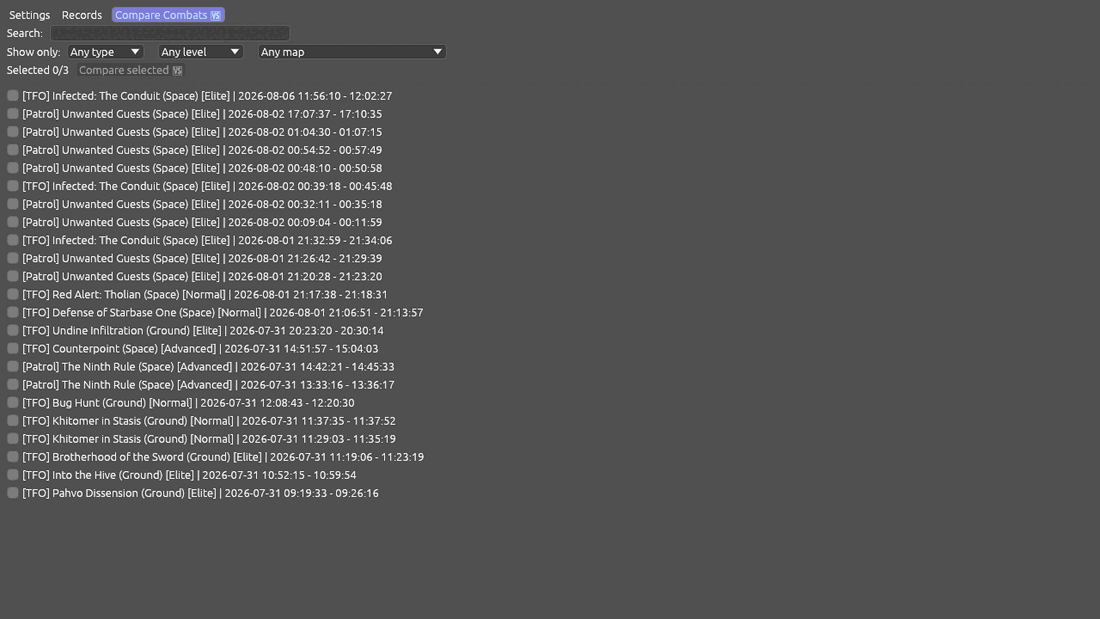
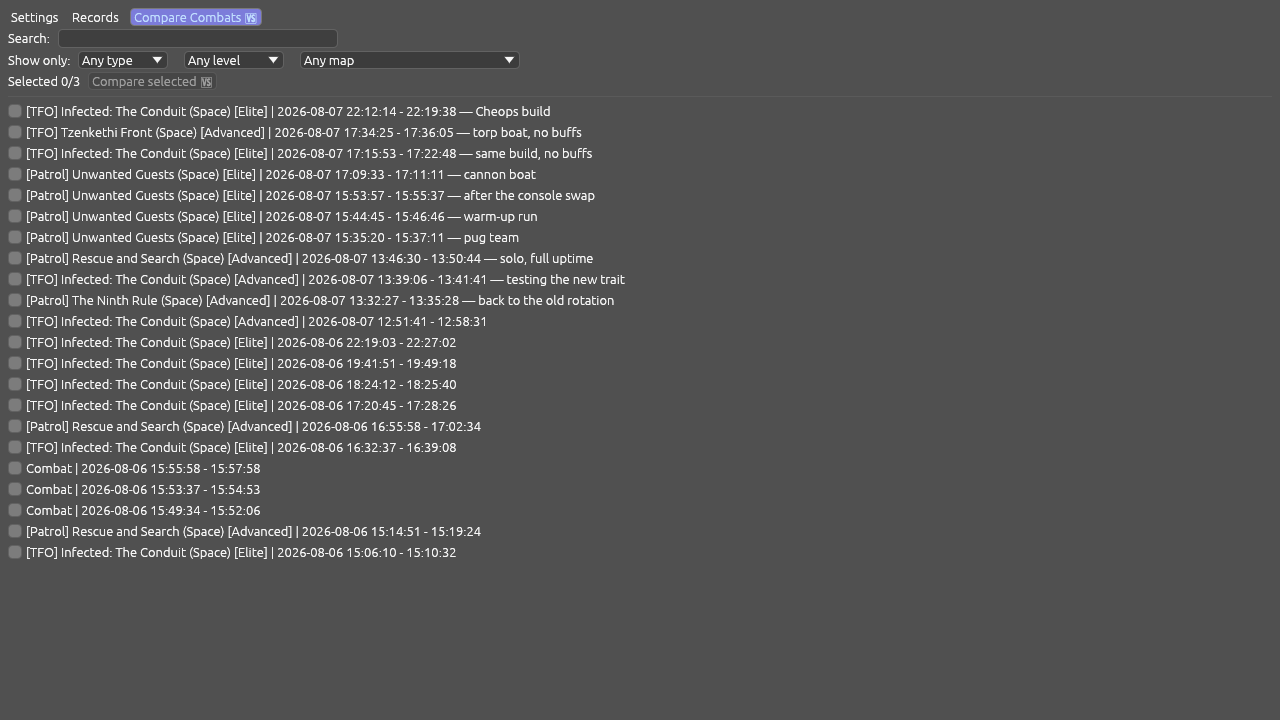
Show the notes and the series colours in the manual's pictures
The pictures the manual leans on were taken before a comparison carried notes
or colours, and before Visuals had a colour-blind switch, so the text described
things the screenshots did not show.

`demo/settings.py` now labels the newest combats with made-up notes instead of
clearing the section outright. Clearing it was right when a note was only the
user's own words about their runs — but a note is now part of what a picture of
the combats list and of Compare has to show, and the real ones still never
reach an image, because these replace them rather than join them.

The keys are worked out the way the program works them out: a record more than
the separation time after the last one starts a combat, and a note is keyed by
the timestamp of its first record. More notes are seeded than any one picture
shows, because the program then throws away the fights nobody dealt damage in
and a note landing on one of those is never seen.

Retaken with `demo/screenshots.sh images settings`: the comparison now shows a
note under each combat number, both in the colour of that combat's line, and
the Visuals tab shows the new switch.

Changed region(s): [[0.0, 0.1535, 0.4945, 0.8288]]

diff --git a/demo/settings.py b/demo/settings.py
@@ -13,6 +13,7 @@ Run the program against it with:
     XDG_CONFIG_HOME=/tmp/clare-demo ./target/release/sto-clare
 """
 
+import datetime
 import json
 import pathlib
 import shutil
@@ -31,6 +32,64 @@ def live_settings() -> pathlib.Path | None:
     return None
 
 
+# What the newest combats are labelled with in the pictures, newest first.
+#
+# More of them than any one picture shows, on purpose: the boundaries below are
+# every gap in the log, while the program throws away the fights nobody dealt
+# damage in (`Analyzer`, `retain(|combat| combat.total_damage_out.all > 0.0)`).
+# Notes landing on those are simply never seen, so the list has to run past them
+# for the combats a picture does show to carry one.
+DEMO_NOTES = [
+    "Cheops build",
+    "FAW build",
+    "torp boat, no buffs",
+    "first run of the evening",
+    "same build, no buffs",
+    "cannon boat",
+    "after the console swap",
+    "warm-up run",
+    "pug team",
+    "solo, full uptime",
+    "testing the new trait",
+    "back to the old rotation",
+]
+
+
+def combat_starts(log: pathlib.Path, separation_seconds: float) -> list[datetime.datetime]:
+    """When each combat in `log` began, oldest first.
+
+    Mirrors `Analyzer::process_next_record`: a record more than the separation
+    time after the last one starts a new combat, and a combat's start — which
+    is what a note is keyed by (`CombatNotes::key_at`) — is the timestamp of
+    its first record. The log writes `%y:%m:%d:%H:%M:%S.f` with one decimal;
+    the parser pads that to milliseconds, so this does too.
+    """
+    starts: list[datetime.datetime] = []
+    previous: datetime.datetime | None = None
+    separation = datetime.timedelta(seconds=separation_seconds)
+    with log.open(encoding="utf-8", errors="replace") as lines:
+        for line in lines:
+            stamp, _, _ = line.partition("::")
+            try:
+                time = datetime.datetime.strptime(stamp + "00", "%y:%m:%d:%H:%M:%S.%f")
+            except ValueError:
+                continue
+            if previous is None or time - previous > separation:
+                starts.append(time)
+            previous = time
+    return starts
+
+
+def demo_notes(log: pathlib.Path, separation_seconds: float) -> dict[str, str]:
+    if not log.is_file():
+        return {}
+    newest_first = list(reversed(combat_starts(log, separation_seconds)))
+    return {
+        start.strftime("%Y-%m-%d %H:%M:%S.") + f"{start.microsecond // 1000:03d}": note
+        for start, note in zip(newest_first, DEMO_NOTES)
+    }
+
+
 def main() -> int:
     if len(sys.argv) < 3:
         print(__doc__)
@@ -45,10 +104,13 @@ def main() -> int:
     settings["analysis"]["consolidate_combatlog"] = True
     settings.setdefault("visuals", {})["theme"] = theme
     settings["visuals"].setdefault("ui_scale", 1.0)
-    # Notes are the user's own words about their runs — keep them out of
-    # screenshots. The shape matters: a bare {} fails to load and the program
-    # then falls back to its defaults, log path and all.
-    settings["combat_notes"] = {"notes": {}}
+    # Made-up notes on the newest few combats, replacing the real ones: those
+    # are the user's own words about their runs and must not reach a picture,
+    # while the pictures of the combats list and of Compare have to show what a
+    # note looks like. The shape matters: a bare {} fails to load and the
+    # program then falls back to its defaults, log path and all.
+    separation = settings.get("analysis", {}).get("combat_separation_time_seconds", 45.0)
+    settings["combat_notes"] = {"notes": demo_notes(pathlib.Path(log), float(separation))}
     settings.setdefault("general", {})["overlay_shown"] = False
     settings["window"] = {"size": [1280.0, 720.0], "maximized": False}
 

diff --git a/demo/README.md b/demo/README.md
@@ -11,13 +11,13 @@ from scratch every time. Two jobs:
 
 Nothing here is part of the program, and nothing here runs in CI.
 
-| Script                | What it is for                                                                                                                           |
-|-----------------------|------------------------------------------------------------------------------------------------------------------------------------------|
-| `make-demo-log.py`    | Copies the tail of a real combat log and renames every player in it. Screenshots can then show real numbers without showing real people. |
-| `settings.py`         | Builds a throwaway settings folder pointing at that log, with a chosen theme. Never touches your own settings.                           |
-| `screenshots.sh`      | Runs the program and grabs the pictures used by the docs: the tabs, the settings sections, compare, records, the theme gallery.          |
-| `probe-overlay.sh`    | Measures the overlay: opacity through the compositor, click-through, and the Overlay button.                                             |
-| `format-md-tables.py` | Lines up the columns in markdown tables. Cosmetic; the rendered output does not change.                                                  |
+| Script                | What it is for                                                                                                                                                   |
+|-----------------------|------------------------------------------------------------------------------------------------------------------------------------------------------------------|
+| `make-demo-log.py`    | Copies the tail of a real combat log and renames every player in it. Screenshots can then show real numbers without showing real people.                         |
+| `settings.py`         | Builds a throwaway settings folder pointing at that log, with a chosen theme, and labels its newest combats with made-up notes. Never touches your own settings. |
+| `screenshots.sh`      | Runs the program and grabs the pictures used by the docs: the tabs, the settings sections, compare, records, the theme gallery.                                  |
+| `probe-overlay.sh`    | Measures the overlay: opacity through the compositor, click-through, and the Overlay button.                                                                     |
+| `format-md-tables.py` | Lines up the columns in markdown tables. Cosmetic; the rendered output does not change.                                                                          |
 
 ## Taking the screenshots again
 

diff --git a/MANUAL.md b/MANUAL.md
@@ -206,8 +206,9 @@ combats open on the same player, so you are looking at one player's runs rather
 than several people's.
 
 Your own notes come along for the ride. Where you have written one for a run, it
-is repeated under that run's column heading and on the chart, so a comparison
-reads "Cheops build" against "FAW build" rather than "#1" against "#2".
+is repeated under that run's column heading and on the chart — in the picture
+above the two runs read "warm-up run" and "Cheops build" rather than "#1" and
+"#2".
 
 The chart underneath draws one line per run for whichever ability row you have
 selected, and each run's number and note are printed in the colour of its own
